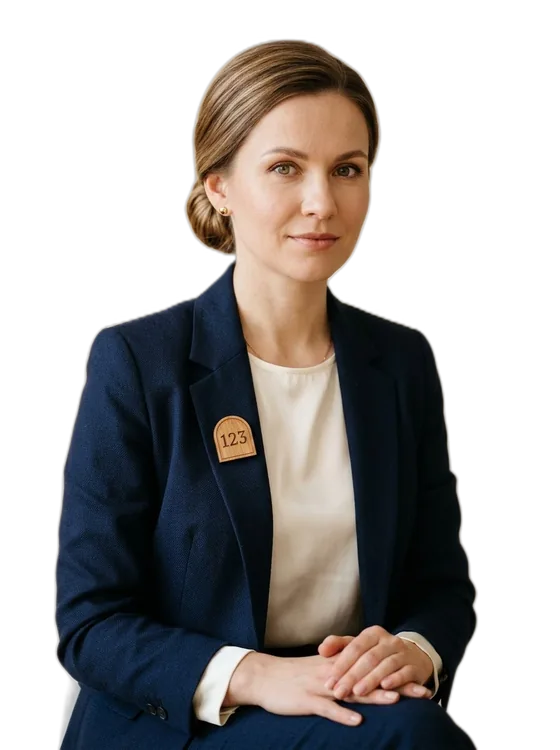
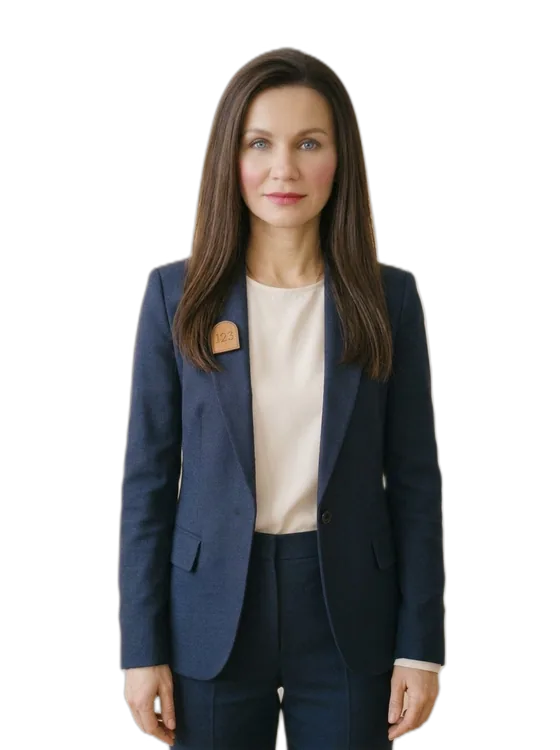
Host character v2: dark brunette, loose hair, blue eyes, standing poses

diff --git a/tools/prep_host.py b/tools/prep_host.py
@@ -4,9 +4,10 @@ import sys
 from PIL import Image, ImageFilter
 
 SRC = sys.argv[1]
-POSES = {'idle': 'host-01-seated', 'wave': 'host-02-wave', 'point': 'host-03-point', 'rest': 'host-04-arms'}
+POSES = ['idle', 'wave', 'point', 'rest']  # имена PNG в папке = имена поз
 W = 560
-for pose, name in POSES.items():
+for pose in POSES:
+    name = pose
     im = Image.open(f'{SRC}/{name}.png').convert('RGBA')
     r, g, b, a = im.split()
     a = a.filter(ImageFilter.MinFilter(3)).filter(ImageFilter.GaussianBlur(0.8))  # убираем светлую кайму

diff --git a/docs/character.md b/docs/character.md
@@ -5,22 +5,23 @@
 
 ## Образ
 
-- Женщина около 32 лет, русые волосы в аккуратном низком пучке, спокойный и уверенный взгляд.
+- Женщина около 32 лет, тёмные (брюнетка) прямые распущенные волосы, голубо-синие глаза, мягкая розовая помада, спокойный и уверенный взгляд.
 - Тёмно-синий жакет (цвет бренда `--navy`) поверх светлой блузки: строго, но тепло.
 - **Брошь:** деревянная арка с цифрами «123» цвета паркета (`--oak`), прямая отсылка к логотипу.
 - Характер: гостеприимная хозяйка, которая встречает гостя и показывает пространство.
 
 ## Как создан
 
-1. Портрет и три позы (машет рукой, показывает вправо, скрещённые руки) сгенерированы в **Gemini** (бесплатный тариф): один промпт на портрет и три запроса «та же женщина, но …» с портретом в качестве референса. Лицо во всех позах узнаваемо одно.
+1. Портрет (стоя) и три позы (машет рукой, показывает вправо, скрещённые руки) сгенерированы в **Gemini** (бесплатный тариф): один промпт на портрет и три запроса «та же женщина, но …» с портретом в качестве референса. Лицо во всех позах узнаваемо одно.
 2. Фон вырезан библиотекой rembg (модель `u2net_human_seg`), скрипт `tools/prep_host.py` убирает светлую кайму и сохраняет WebP с прозрачностью (`public/host/*.webp`, ~140 КБ на четыре позы).
-3. Исходные файлы лежат вне репозитория: `arka-materials/character/`.
+3. Исходные файлы лежат вне репозитория: `arka-materials/character/v2/`.
 
 Промпт портрета:
 ```
-Portrait of a Slavic woman, 32 years old, calm confident expression, light brown hair in a neat low bun,
-wearing a tailored navy blazer over an ivory blouse, a small oak-colored arch-shaped brooch with the numbers "123"
-pinned on the lapel, plain light beige studio background, soft daylight, photorealistic, half-body, 3:4
+Portrait of a Slavic woman, 32 years old, calm confident expression, dark brunette hair worn loose and straight past the
+shoulders, deep blue eyes with a slight blue-grey tint, natural makeup with soft rose-red lipstick, wearing a tailored navy
+blazer over an ivory blouse, a small oak-colored arch-shaped brooch with the numbers "123" pinned on the lapel, plain light
+warm beige studio background, soft daylight, photorealistic, half-body, standing, 3:4
 ```
 
 ## Роль на сайте (`src/host.js`, `src/scene.js`)
